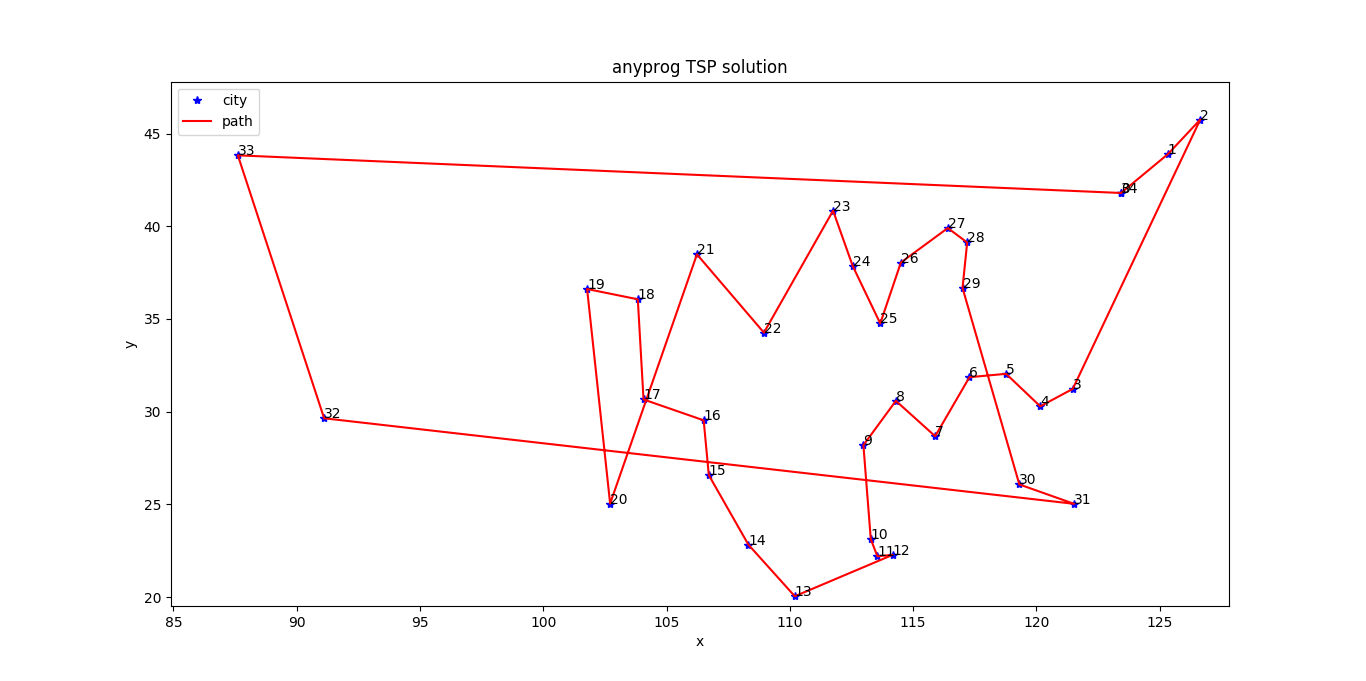
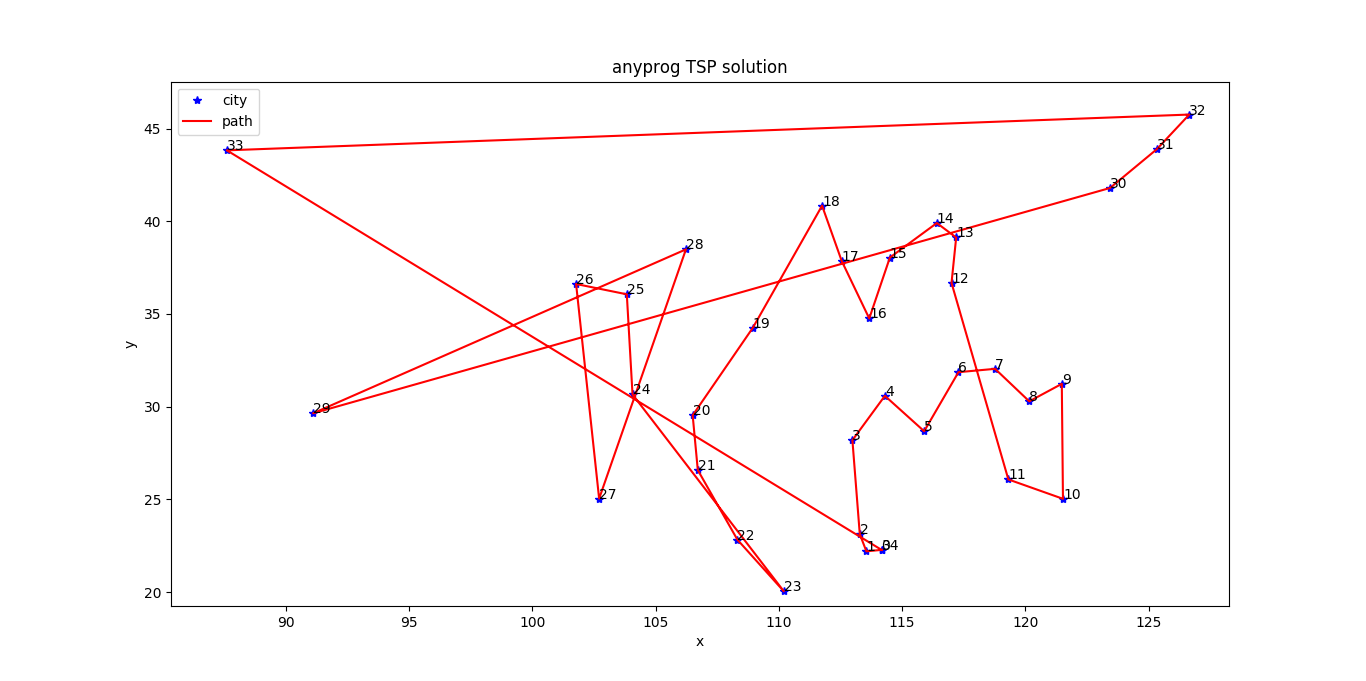
update

diff --git a/src/src/optimization.cpp b/src/src/optimization.cpp
@@ -681,14 +681,15 @@ optimization& optimization::set_enable_binary_filter()
     return *this;
 }
 
-optimization::tsp::tsp(const real_block& c)
-    : bk(c)
+optimization::tsp::tsp(const real_block& c, size_t start)
+    : start(start)
+    , bk(c)
     , data(c)
     , max_value(c.maxCoeff())
     , sum(0)
     , path()
 {
-    this->find(0);
+    this->find(this->start);
 }
 
 void optimization::tsp::find(size_t i)
@@ -706,7 +707,7 @@ void optimization::tsp::find(size_t i)
         }
         this->find(min_index);
     } else {
-        this->path.push_back(0);
+        this->path.push_back(this->start);
     }
 }
 

diff --git a/src/inc/anyprog/optimization.hpp b/src/inc/anyprog/optimization.hpp
@@ -135,6 +135,7 @@ public:
 
     class tsp {
     private:
+        size_t start;
         const real_block& bk;
         real_block data;
         double max_value, sum;
@@ -143,7 +144,7 @@ public:
 
     public:
         tsp() = delete;
-        tsp(const real_block&);
+        tsp(const real_block&, size_t = 0);
         virtual ~tsp() = default;
         const std::vector<size_t>& solve() const;
         double obj() const;

diff --git a/README.md b/README.md
@@ -1004,87 +1004,55 @@ distance=500
 int main(int argc, char** argv)
 {
     //https://blog.csdn.net/haohaoliu_/article/details/83024664
-    std::vector<std::string> city = {
-        "沈阳市",
-        "长春市",
-        "哈尔滨市",
-        "北京市",
-        "天津市",
-        "呼和浩特市",
-        "银川市",
-        "太原市",
-        "石家庄市",
-        "济南市",
-        "郑州市",
-        "西安市",
-        "武汉市",
-        "南京市",
-        "合肥市",
-        "上海市",
-        "长沙市",
-        "南昌市",
-        "杭州市",
-        "福州市",
-        "广州市",
-        "台北市",
-        "海口市",
-        "南宁市",
-        "重庆市",
-        "昆明市",
-        "贵阳市",
-        "成都市",
-        "兰州市",
-        "西宁市",
-        "拉萨市",
-        "乌鲁木齐市",
-        "香港",
-        "澳门"
+    std::vector<std::pair<std::string, std::pair<double, double>>> city_and_gps = {
+        { "香港", { 114.165460, 22.275340 } },
+        { "澳门", { 113.549130, 22.198750 } },
+        { "上海市", { 121.472641, 31.231707 } },
+        { "武汉市", { 114.298569, 30.584354 } },
+        { "南京市", { 118.76741, 32.041546 } },
+        { "合肥市", { 117.283043, 31.861191 } },
+        { "长沙市", { 112.982277, 28.19409 } },
+        { "南昌市", { 115.892151, 28.676493 } },
+        { "杭州市", { 120.15358, 30.287458 } },
+        { "福州市", { 119.306236, 26.075302 } },
+        { "广州市", { 113.28064, 23.125177 } },
+        { "台北市", { 121.5200760, 25.0307240 } },
+        { "海口市", { 110.199890, 20.044220 } },
+        { "南宁市", { 108.320007, 22.82402 } },
+        { "重庆市", { 106.504959, 29.533155 } },
+        { "昆明市", { 102.71225, 25.040609 } },
+        { "贵阳市", { 106.713478, 26.578342 } },
+        { "成都市", { 104.065735, 30.659462 } },
+        { "沈阳市", { 123.429092, 41.796768 } },
+        { "长春市", { 125.324501, 43.886841 } },
+        { "哈尔滨市", { 126.642464, 45.756966 } },
+        { "北京市", { 116.405289, 39.904987 } },
+        { "天津市", { 117.190186, 39.125595 } },
+        { "呼和浩特市", { 111.751990, 40.841490 } },
+        { "银川市", { 106.232480, 38.486440 } },
+        { "太原市", { 112.549248, 37.857014 } },
+        { "石家庄市", { 114.502464, 38.045475 } },
+        { "济南市", { 117.000923, 36.675808 } },
+        { "郑州市", { 113.665413, 34.757977 } },
+        { "西安市", { 108.948021, 34.263161 } },
+        { "兰州市", { 103.834170, 36.061380 } },
+        { "西宁市", { 101.777820, 36.617290 } },
+        { "拉萨市", { 91.11450, 29.644150 } },
+        { "乌鲁木齐市", { 87.616880, 43.826630 } }
     };
-
-    std::vector<std::pair<double, double>> gps = {
-        { 123.429092, 41.796768 },
-        { 125.324501, 43.886841 },
-        { 126.642464, 45.756966 },
-        { 116.405289, 39.904987 },
-        { 117.190186, 39.125595 },
-        { 111.751990, 40.841490 },
-        { 106.232480, 38.486440 },
-        { 112.549248, 37.857014 },
-        { 114.502464, 38.045475 },
-        { 117.000923, 36.675808 },
-        { 113.665413, 34.757977 },
-        { 108.948021, 34.263161 },
-        { 114.298569, 30.584354 },
-        { 118.76741, 32.041546 },
-        { 117.283043, 31.861191 },
-        { 121.472641, 31.231707 },
-        { 112.982277, 28.19409 },
-        { 115.892151, 28.676493 },
-        { 120.15358, 30.287458 },
-        { 119.306236, 26.075302 },
-        { 113.28064, 23.125177 },
-        { 121.5200760, 25.0307240 },
-        { 110.199890, 20.044220 },
-        { 108.320007, 22.82402 },
-        { 106.504959, 29.533155 },
-        { 102.71225, 25.040609 },
-        { 106.713478, 26.578342 },
-        { 104.065735, 30.659462 },
-        { 103.834170, 36.061380 },
-        { 101.777820, 36.617290 },
-        { 91.11450, 29.644150 },
-        { 87.616880, 43.826630 },
-        { 114.165460, 22.275340 },
-        { 113.549130, 22.198750 }
-    };
+    std::vector<std::pair<double, double>> gps;
+    for (auto& i : city_and_gps) {
+        gps.push_back(i.second);
+    }
     // https://github.com/janantala/GPS-distance
     // http://www.movable-type.co.uk/scripts/latlong-vincenty.html
-    auto dis = anyprog::optimization::tsp::gps_distance(gps);
+    anyprog::real_block dis = anyprog::optimization::tsp::gps_distance(gps);
     anyprog::optimization::tsp tsp(dis);
     auto path = tsp.solve();
     std::cout << "path=|";
-    for (auto& i : path) {
-        std::cout << city[i] << "|";
+    for (size_t i = 0; i < path.size(); ++i) {
+        std::cout << city_and_gps[path[i]].first << "|";
+        output << i << "," << path[i] << "," << gps[path[i]].first << "," << gps[path[i]].second << "\n";
     }
     std::cout << "\ndistance="
               << tsp.obj() << " km\n";
@@ -1092,8 +1060,9 @@ int main(int argc, char** argv)
 }
 ```
 ```txt
-path=|沈阳市|长春市|哈尔滨市|上海市|杭州市|南京市|合肥市|南昌市|武汉市|长沙市|广州市|澳门|香港|海口市|南宁市|贵阳市|重庆市|成都市|兰州市|西宁市|昆明市|银川市|西安市|呼和浩特市|太原市|郑州市|石家庄市|北京市|天津市|济南市|福州市|台北市|拉萨市|乌鲁木齐市|沈阳市|
-distance=47037 km
+path=|香港|澳门|广州市|长沙市|武汉市|南昌市|合肥市|南京市|杭州市|上海市|台北市|福州市|济南市|天津市|北京市|石家庄市|郑州市|太原市|呼和浩特市|西安市|重庆市|贵阳市|南宁市|海口市|成都市|兰州市|西宁市|昆明市|银川市|拉萨市|沈阳市|长春市|哈尔滨市|乌鲁木齐市|香港|
+distance=45336.9 km
+
 ```
 
 ## data fitting
